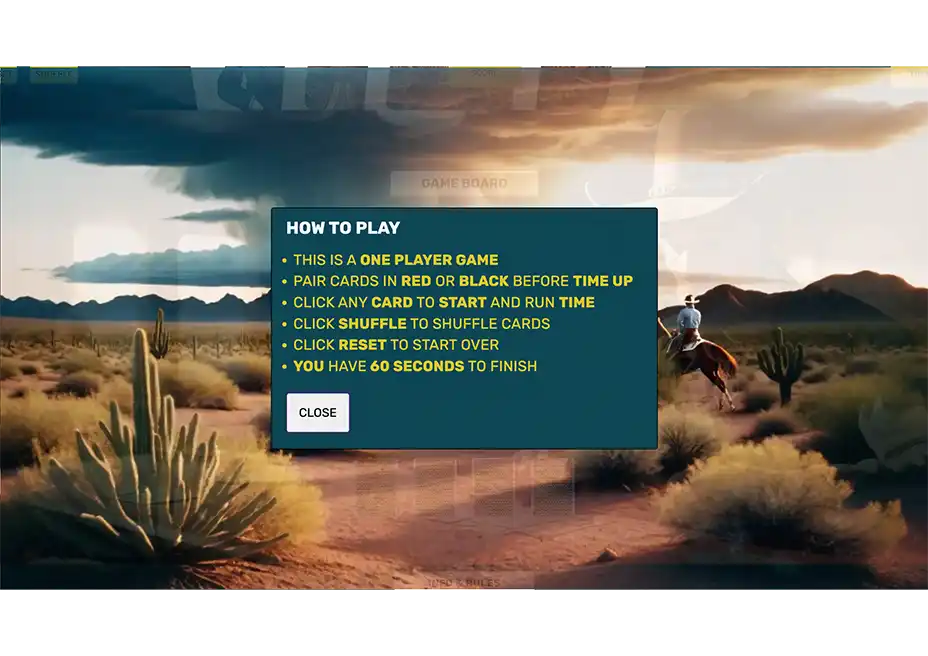
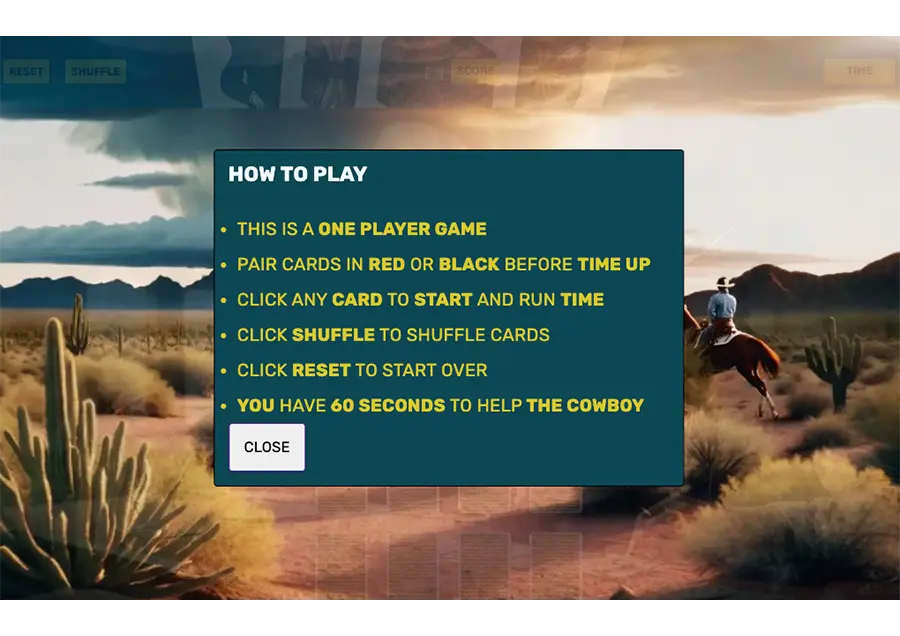
Update modal with info and rules in index and readme img

diff --git a/index.html b/index.html
@@ -194,7 +194,7 @@
                                 Click <b>RESET</b> to start over<br>
                             </li>
                             <li>
-                                <b>You</b> have<b> 60 seconds</b> to finish<br>
+                                <b>You</b> have<b> 60 seconds</b> to help<b> The Cowboy</b><br>
                             </li>
                         </ul>
                         <div>

diff --git a/README.md b/README.md
@@ -158,7 +158,16 @@ The gameboard greets the user when the page first loads. It is a 4x4 grid-style 
 ### **2. Game Info Modal** 
 ![screenshot of info and rules modal](./assets/docs/images/info_rules_modal.webp)  
 
-This modal is integrated in the Header as a menu option and details the game rules. Pressing the 'Close' button takes te player back to the gameboard.
+This modal is integrated in the Footer and details the game rules and how to play. 
+
+- This is a One Player Game
+- Pair CARDS in RED or BLACK before TIME UP
+- Click any CARD to START and run TIME                           
+- Click SHUFFLE to shuffle cards                        
+- Click RESET to start over                      
+- You have 60 seconds to help  The Cowboy
+
+Pressing the 'Close' button takes te player back to the gameboard.
 
 <br>
   
